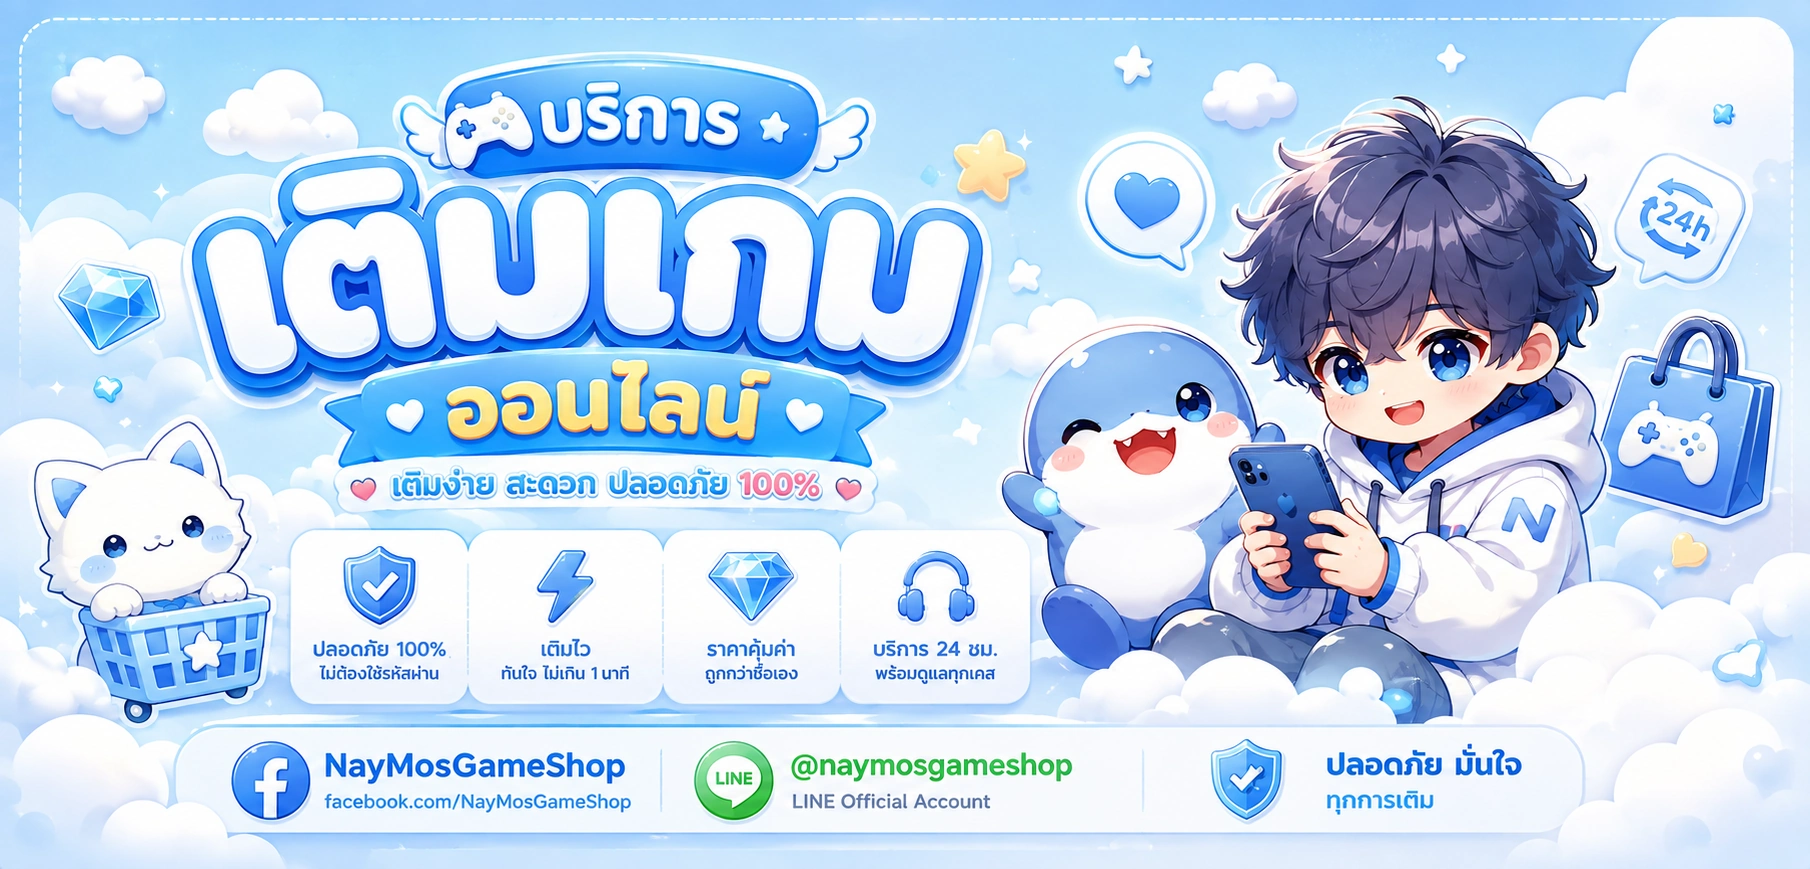
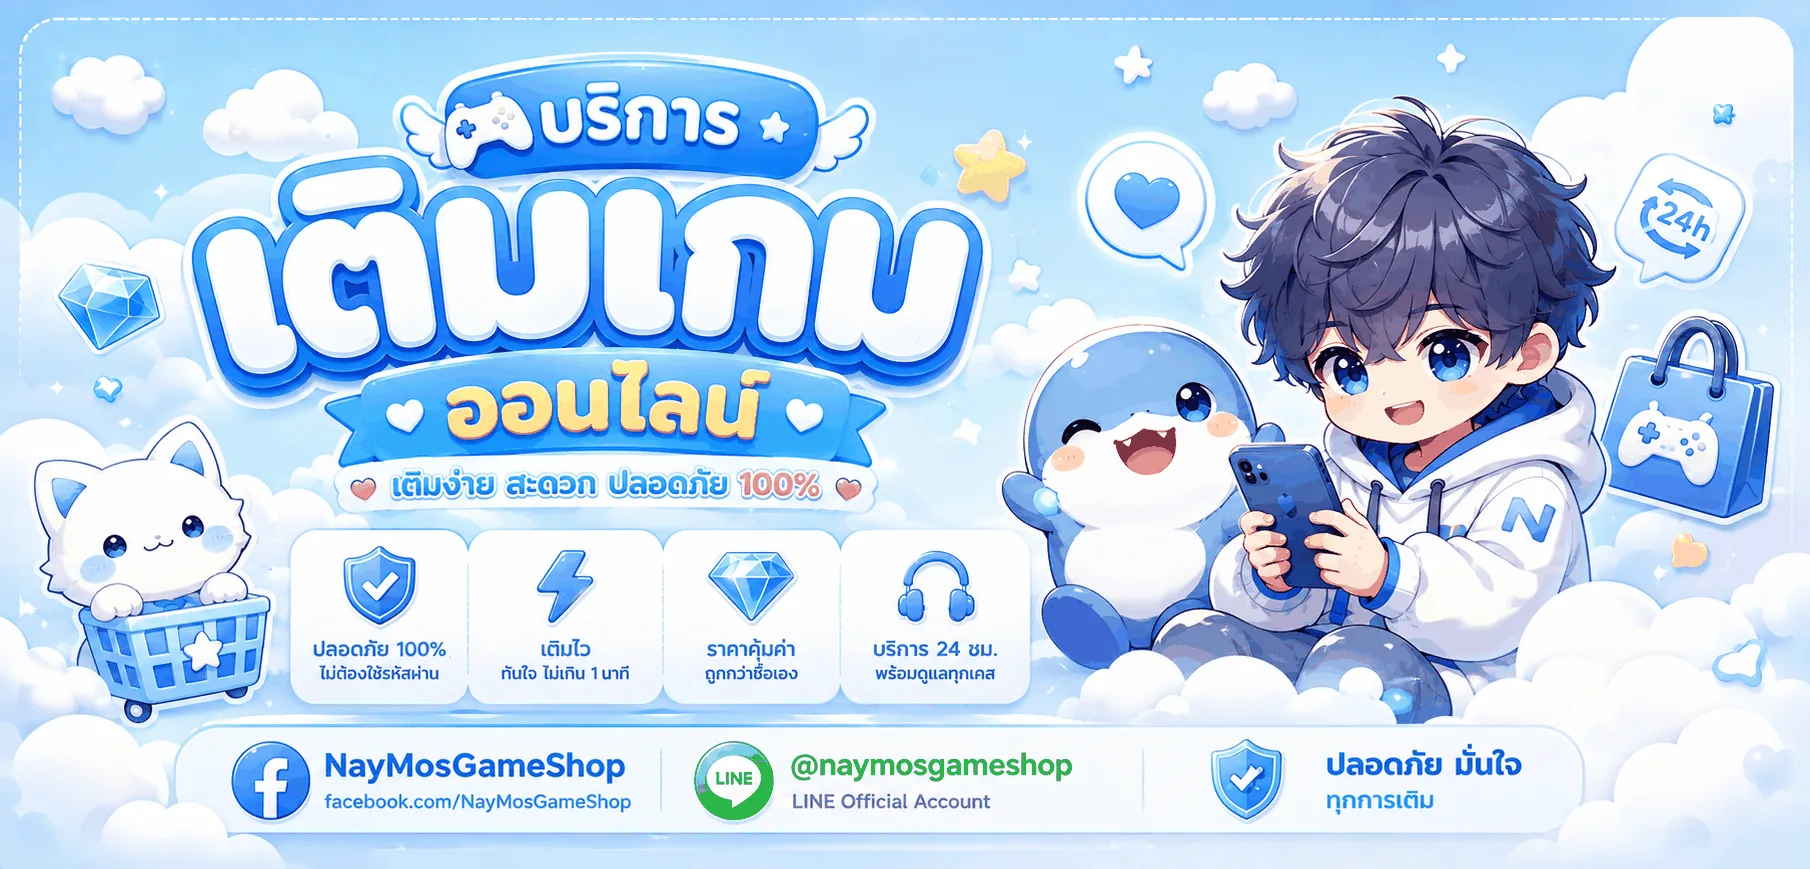
perf: Optimize public assets with WebP, replace full reloads with client navigation, reduce bundle payload

diff --git a/components/chat/FloatingChatWidget.tsx b/components/chat/FloatingChatWidget.tsx
@@ -271,7 +271,7 @@ export function FloatingChatWidget({ currentUser }: FloatingChatWidgetProps) {
           ) : (
             <div className="relative flex items-center justify-center group-hover:scale-110 transition-transform duration-300">
               <Image
-                src="/images/shark-chat.png"
+                src="/images/shark-chat.webp"
                 alt="NayMos Chat"
                 width={64}
                 height={64}
@@ -303,7 +303,7 @@ export function FloatingChatWidget({ currentUser }: FloatingChatWidgetProps) {
               <div className="flex items-center gap-3">
                 <div className="w-10 h-10 rounded-2xl bg-white/20 backdrop-blur-sm p-1.5 flex items-center justify-center border border-white/30">
                   <Image
-                    src="/images/shark-chat.png"
+                    src="/images/shark-chat.webp"
                     alt="NayMos Assistant"
                     width={32}
                     height={32}
@@ -408,7 +408,7 @@ export function FloatingChatWidget({ currentUser }: FloatingChatWidgetProps) {
                         {msg.sender === 'ai' && (
                           <div className="w-7 h-7 rounded-full bg-sky-100 border border-sky-200 flex-shrink-0 flex items-center justify-center overflow-hidden shadow-xs mt-1">
                             <Image
-                              src="/images/shark-chat.png"
+                              src="/images/shark-chat.webp"
                               alt="AI"
                               width={24}
                               height={24}

diff --git a/app/page.tsx b/app/page.tsx
@@ -86,7 +86,7 @@ export default async function HomePage() {
           <div className="p-4 sm:p-6 bg-gradient-to-b from-white/90 via-white to-sky-50/50 flex flex-col sm:flex-row items-center justify-between gap-4 border-t border-sky-100">
             <div className="flex items-center gap-3">
               <div className="w-12 h-12 rounded-2xl bg-sky-50 border border-sky-200 p-1 shrink-0 shadow-xs hidden sm:block">
-                <img src="/images/logo.png" alt="NayMos Mascot" className="w-full h-full object-contain" />
+                <img src="/images/logo.webp" alt="NayMos Mascot" className="w-full h-full object-contain" />
               </div>
               <div className="text-center sm:text-left">
                 <h1 className="text-xl sm:text-2xl font-black text-slate-900 tracking-tight flex items-center justify-center sm:justify-start gap-1.5">

diff --git a/components/admin/GameRowActions.tsx b/components/admin/GameRowActions.tsx
@@ -40,7 +40,7 @@ export function GameRowActions({
       if (!data.success) {
         setActive(!v);
       } else {
-        window.location.reload();
+        router.refresh();
       }
     } catch {
       setActive(!v);
@@ -60,7 +60,7 @@ export function GameRowActions({
       const data = await res.json();
       if (data.success) {
         setEditing(false);
-        window.location.reload();
+        router.refresh();
       } else {
         setMsg(data.message || 'บันทึกไม่สำเร็จ');
       }
@@ -89,7 +89,7 @@ export function GameRowActions({
       });
       const data = await res.json();
       if (data.success) {
-        window.location.reload();
+        router.refresh();
       } else {
         alert(data.message || 'ลบเกมไม่สำเร็จ');
       }

diff --git a/components/layout/Header.tsx b/components/layout/Header.tsx
@@ -40,7 +40,7 @@ export async function Header() {
           <Link href="/" className="flex items-center gap-2 sm:gap-2.5 shrink-0 group">
             <div className="relative h-10 sm:h-12 w-auto shrink-0 flex items-center group-hover:scale-105 transition-transform duration-200">
               <img
-                src="/images/logo.png"
+                src="/images/logo.webp"
                 alt="NayMos GameShop"
                 className="h-10 sm:h-12 w-auto object-contain select-none"
               />

diff --git a/components/layout/Footer.tsx b/components/layout/Footer.tsx
@@ -32,7 +32,7 @@ export function Footer() {
             <div className="flex items-center gap-2.5">
               <div className="w-10 h-10 rounded-2xl bg-sky-50 border border-sky-200 p-0.5 overflow-hidden shadow-xs shrink-0">
                 <img
-                  src="/images/logo.png"
+                  src="/images/logo.webp"
                   alt="NayMos GameShop"
                   className="w-full h-full object-contain"
                 />

diff --git a/components/admin/AdminOrderRowActions.tsx b/components/admin/AdminOrderRowActions.tsx
@@ -35,7 +35,7 @@ export function AdminOrderRowActions({ order }: { order: any }) {
       });
       const data = await res.json();
       if (data.success) {
-        window.location.reload();
+        router.refresh();
       } else {
         alert(data.message || 'ลบออเดอร์ไม่สำเร็จ');
       }
